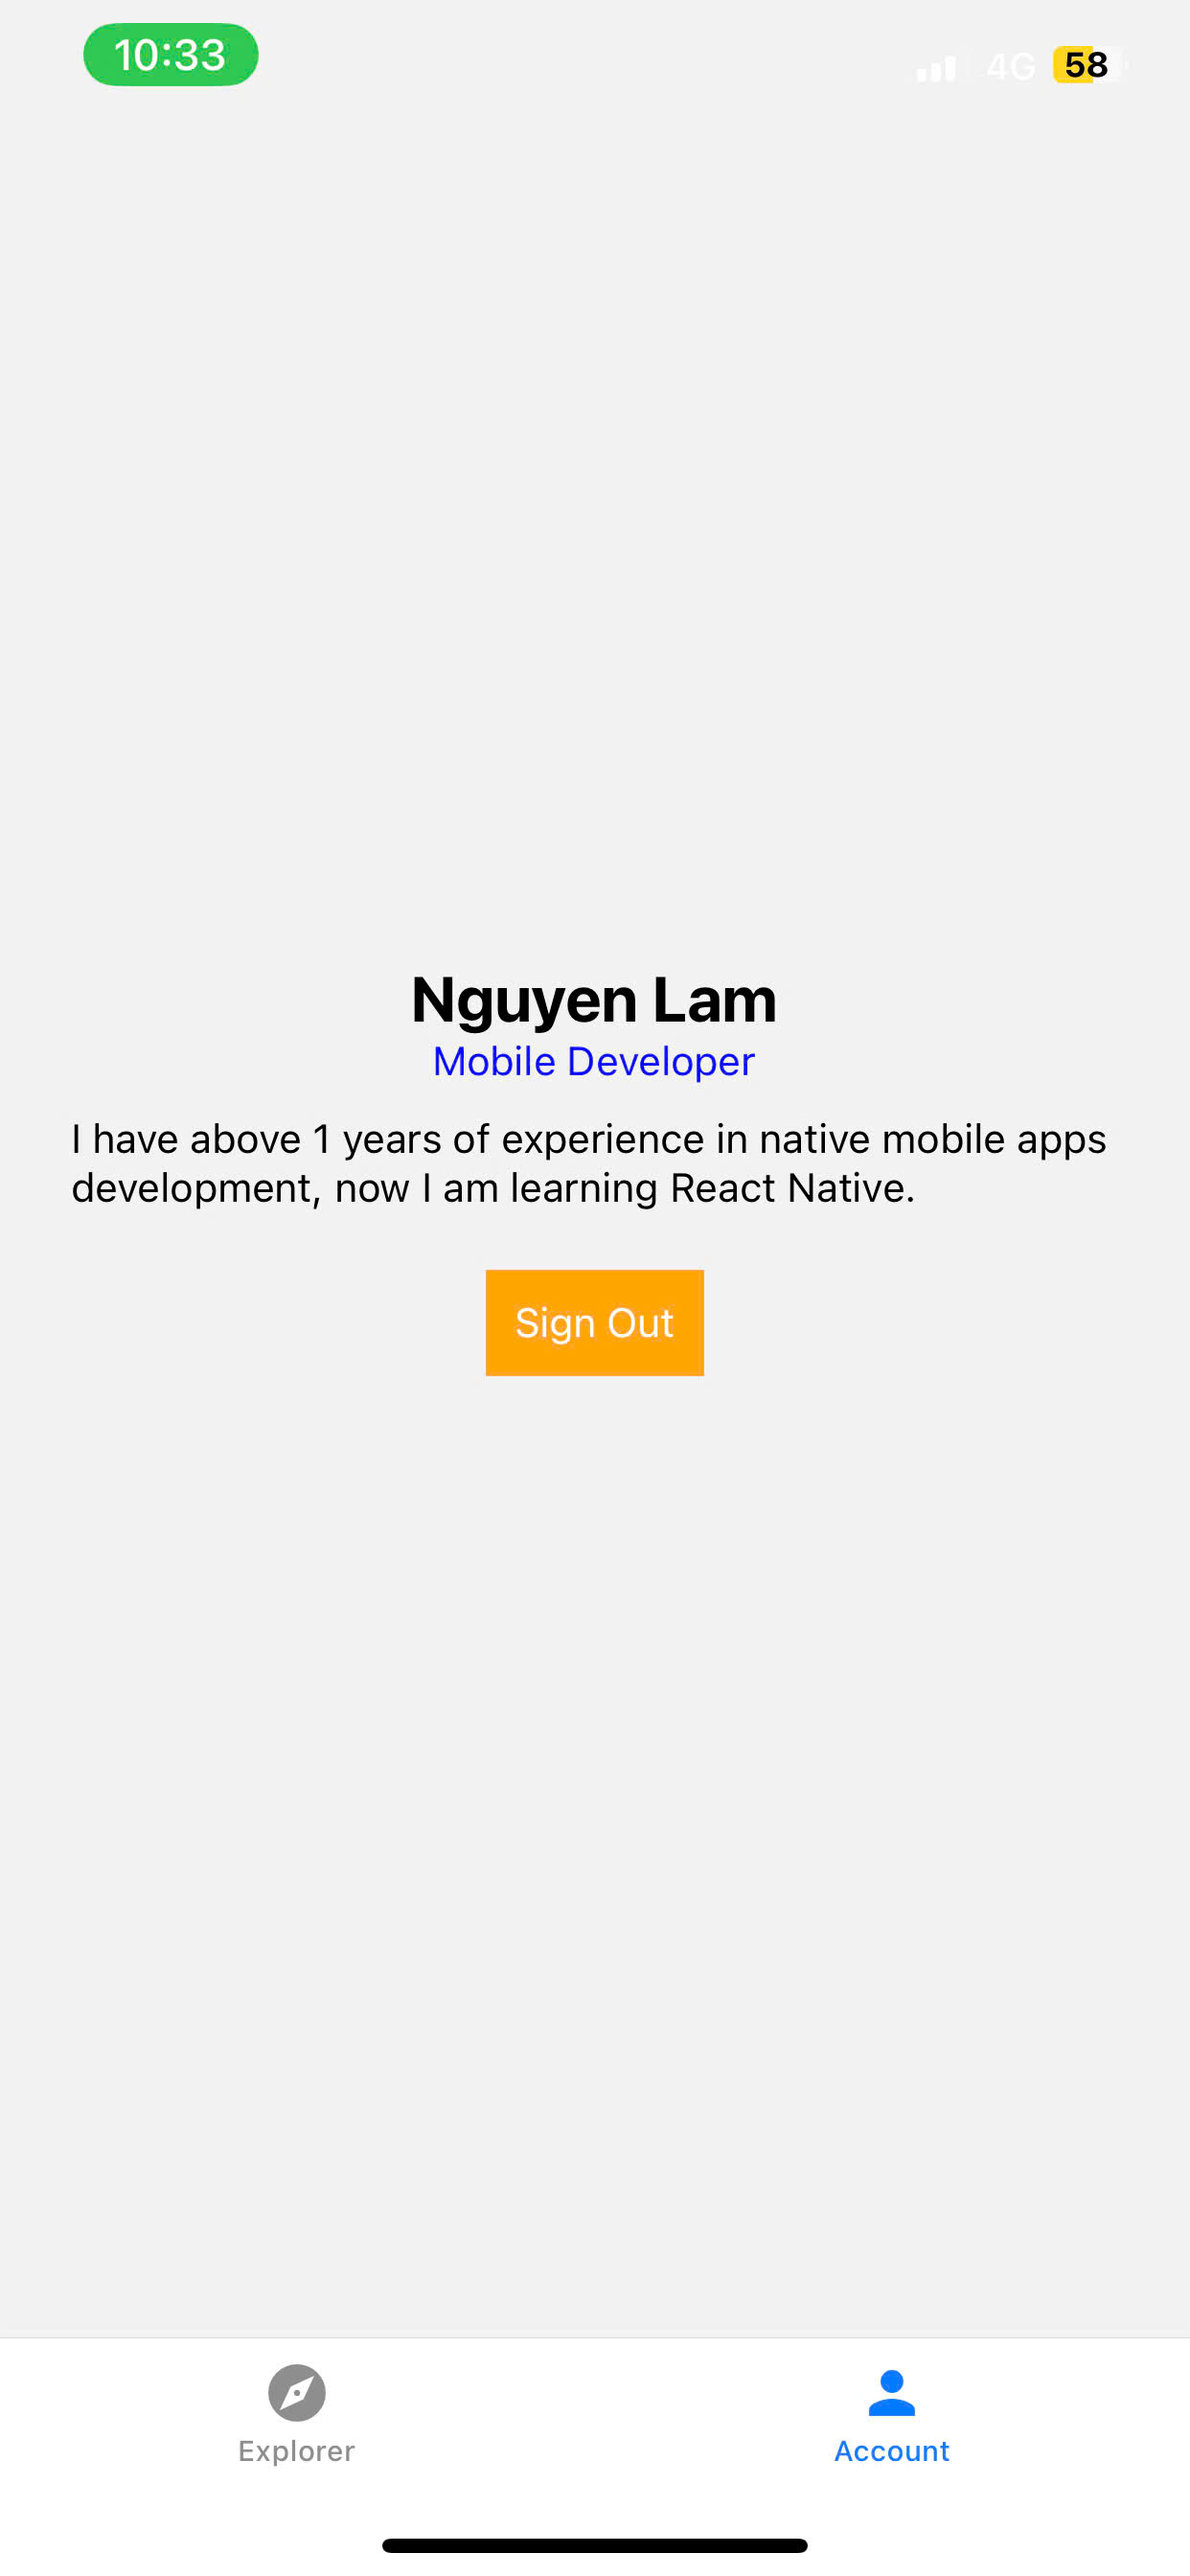
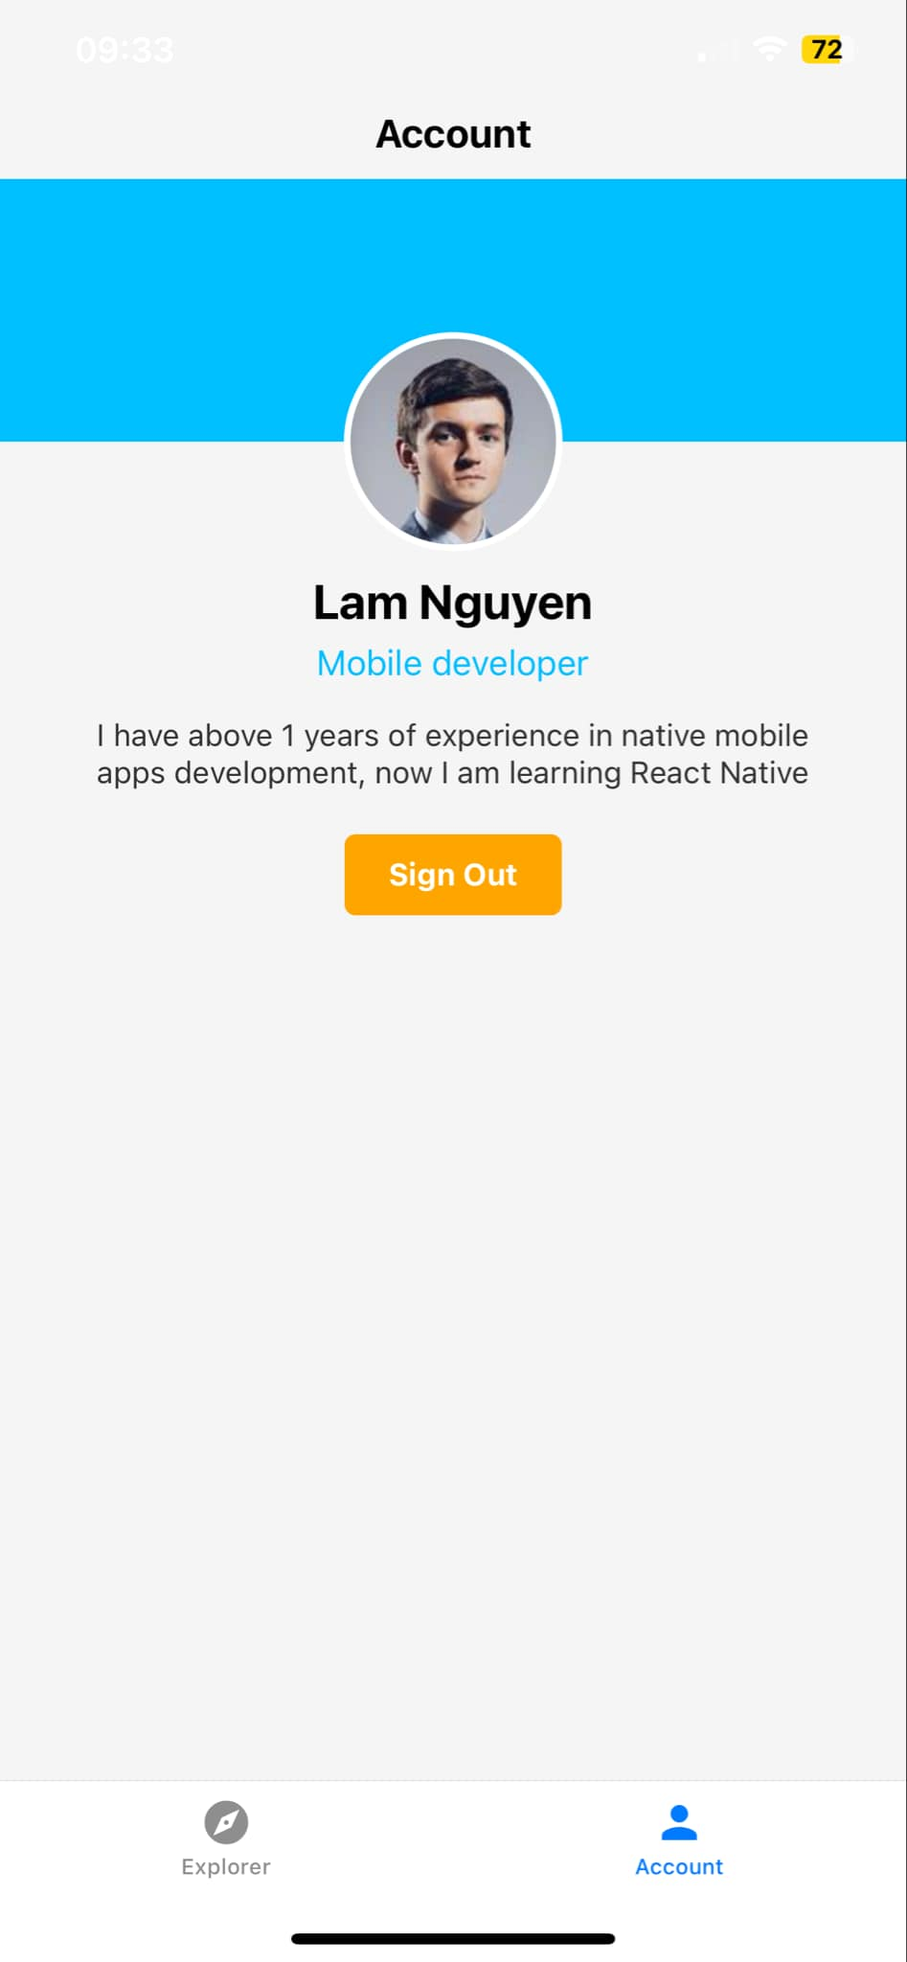
Bai Tap 18-3

diff --git a/screens/SignInScreen.js b/screens/SignInScreen.js
@@ -1,165 +1,116 @@
 import React, { useState } from 'react';
-import {
-  View,
-  Text,
-  TextInput,
-  TouchableOpacity,
-  StyleSheet,
-  KeyboardAvoidingView,
-  ScrollView,
-  Platform,
-  TouchableWithoutFeedback,
-  Keyboard
-} from 'react-native';
+import { View, Text, TextInput, TouchableOpacity, StyleSheet, Alert } from 'react-native';
+import AsyncStorage from '@react-native-async-storage/async-storage';
 import Icon from 'react-native-vector-icons/FontAwesome';
 
-export function SignInScreen({ navigation }) {
+export default function SignInScreen({ navigation }) {
   const [email, setEmail] = useState('');
   const [password, setPassword] = useState('');
 
+  const handleSignIn = async () => {
+    if (!email || !password) {
+      Alert.alert('Thông báo', 'Vui lòng nhập Email và Password');
+      return;
+    }
+    try {
+      await AsyncStorage.setItem('userEmail', email);
+      Alert.alert('Thành công', 'Đăng nhập thành công!');
+  
+      // ✅ Chuyển qua Explorer trước, sau đó có thể quay về Account
+      navigation.navigate('Main');
+      // ✅ Nếu muốn chuyển thẳng sang Account thì thay Explorer bằng Account
+      // navigation.navigate('Account');
+  
+    } catch (error) {
+      Alert.alert('Lỗi', 'Lưu email thất bại');
+    }
+  };
+
+  const handleGoogleLogin = () => {
+    Alert.alert('Google Login', 'Tính năng đang phát triển');
+  };
+
+  const handleFacebookLogin = () => {
+    Alert.alert('Facebook Login', 'Tính năng đang phát triển');
+  };
+
   return (
-    <KeyboardAvoidingView
-      behavior={Platform.OS === "ios" ? "padding" : "height"}
-      style={styles.container}
-    >
-      <TouchableWithoutFeedback onPress={Keyboard.dismiss}>
-        <ScrollView contentContainerStyle={styles.scrollContainer}>
-          <View style={styles.innerContainer}>
-            <Text style={styles.title}>Sign In</Text>
+    <View style={styles.container}>
+      <Text style={styles.title}>Sign In</Text>
 
-            {/* Email Input */}
-            <Text style={styles.label}>Email Id</Text>
-            <TextInput
-              style={styles.input}
-              placeholder="Enter your email here!"
-              value={email}
-              onChangeText={setEmail}
-              keyboardType="email-address"
-            />
+      <Text style={styles.label}>Email Id</Text>
+      <TextInput
+        style={styles.input}
+        placeholder="Enter your email here!"
+        value={email}
+        onChangeText={setEmail}
+      />
 
-            {/* Password Input */}
-            <Text style={styles.label}>Password</Text>
-            <TextInput
-              style={styles.input}
-              placeholder="Enter your password here!"
-              secureTextEntry
-              value={password}
-              onChangeText={setPassword}
-            />
+      <Text style={styles.label}>Password</Text>
+      <TextInput
+        style={styles.input}
+        placeholder="Enter your password here!"
+        secureTextEntry
+        value={password}
+        onChangeText={setPassword}
+      />
 
-            {/* Forgot Password */}
-            <TouchableOpacity>
-              <Text style={styles.forgotPassword}>Forgot password?</Text>
-            </TouchableOpacity>
+      <TouchableOpacity style={styles.forgot}>
+        <Text style={styles.forgotText}>Forgot password?</Text>
+      </TouchableOpacity>
 
-            {/* Sign In Button */}
-            <TouchableOpacity style={styles.button} onPress={() => navigation.replace('Main')}>
-              <Text style={styles.buttonText}>Sign In</Text>
-            </TouchableOpacity>
+      <TouchableOpacity style={styles.signInBtn} onPress={handleSignIn}>
+        <Text style={styles.signInText}>Sign In</Text>
+      </TouchableOpacity>
 
-            {/* OR Sign In With */}
-            <Text style={styles.orText}>Or sign in with</Text>
+      <Text style={styles.orText}>Or sign in with</Text>
 
-            {/* Social Sign In Buttons */}
-            <View style={styles.socialButtons}>
-              <TouchableOpacity style={[styles.socialButton, { backgroundColor: '#DB4437' }]}>
-                <Icon name="google" size={20} color="white" />
-                <Text style={styles.socialButtonText}> Google</Text>
-              </TouchableOpacity>
-              <TouchableOpacity style={[styles.socialButton, { backgroundColor: '#4267B2' }]}>
-                <Icon name="facebook" size={20} color="white" />
-                <Text style={styles.socialButtonText}> Facebook</Text>
-              </TouchableOpacity>
-            </View>
+      <View style={styles.socialContainer}>
+        <TouchableOpacity style={styles.googleBtn} onPress={handleGoogleLogin}>
+          <Icon name="google" size={20} color="#fff" />
+          <Text style={styles.socialText}> Google</Text>
+        </TouchableOpacity>
 
-            {/* Sign Up Link */}
-            <TouchableOpacity onPress={() => alert('Sign Up')}>
-              <Text style={styles.signUp}>
-                Not yet a member? <Text style={{ color: 'orange' }}>Sign Up</Text>
-              </Text>
-            </TouchableOpacity>
-          </View>
-        </ScrollView>
-      </TouchableWithoutFeedback>
-    </KeyboardAvoidingView>
+        <TouchableOpacity style={styles.fbBtn} onPress={handleFacebookLogin}>
+          <Icon name="facebook" size={20} color="#fff" />
+          <Text style={styles.socialText}> Facebook</Text>
+        </TouchableOpacity>
+      </View>
+
+      <View style={styles.signupContainer}>
+        <Text>Not yet a member? </Text>
+        <TouchableOpacity>
+          <Text style={styles.signupText}>Sign Up</Text>
+        </TouchableOpacity>
+      </View>
+    </View>
   );
 }
 
 const styles = StyleSheet.create({
-  container: {
-    flex: 1,
-    backgroundColor: 'white',
-  },
-  scrollContainer: {
-    flexGrow: 1,
-    justifyContent: 'center',
-    paddingHorizontal: 20,
-  },
-  innerContainer: {
-    width: '100%',
-  },
-  title: {
-    fontSize: 24,
-    fontWeight: 'bold',
-    textAlign: 'center',
-    marginBottom: 20,
-  },
-  label: {
-    fontSize: 16,
-    fontWeight: 'bold',
-    marginBottom: 5,
-  },
+  container: { flex: 1, padding: 20, justifyContent: 'center', backgroundColor: '#fff' },
+  title: { fontSize: 28, fontWeight: 'bold', textAlign: 'center', marginBottom: 30 },
+  label: { fontWeight: 'bold', marginBottom: 5 },
   input: {
-    borderWidth: 1,
-    borderColor: '#ccc',
-    padding: 10,
-    marginBottom: 10,
-    borderRadius: 5,
-    backgroundColor: '#fff',
+    borderWidth: 1, borderColor: '#ccc', borderRadius: 5,
+    padding: 12, marginBottom: 15,
   },
-  forgotPassword: {
-    color: 'orange',
-    textAlign: 'right',
-    marginBottom: 20,
+  forgot: { alignItems: 'flex-end', marginBottom: 20 },
+  forgotText: { color: '#f5a623' },
+  signInBtn: {
+    backgroundColor: '#f5a623', padding: 15,
+    borderRadius: 5, alignItems: 'center', marginBottom: 20
   },
-  button: {
-    backgroundColor: 'orange',
-    padding: 15,
-    borderRadius: 5,
-    alignItems: 'center',
+  signInText: { color: '#fff', fontWeight: 'bold' },
+  orText: { textAlign: 'center', marginVertical: 15, color: '#555' },
+  socialContainer: { flexDirection: 'row', justifyContent: 'space-around', marginBottom: 20 },
+  googleBtn: {
+    backgroundColor: '#db4437', padding: 12, borderRadius: 5, flexDirection: 'row', alignItems: 'center'
   },
-  buttonText: {
-    color: 'white',
-    fontWeight: 'bold',
+  fbBtn: {
+    backgroundColor: '#3b5998', padding: 12, borderRadius: 5, flexDirection: 'row', alignItems: 'center'
   },
-  orText: {
-    textAlign: 'center',
-    fontSize: 14,
-    fontWeight: 'bold',
-    marginVertical: 15,
-    color: '#555',
-  },
-  socialButtons: {
-    flexDirection: 'row',
-    justifyContent: 'space-around',
-    marginTop: 10,
-  },
-  socialButton: {
-    flexDirection: 'row',
-    alignItems: 'center',
-    padding: 10,
-    borderRadius: 5,
-    width: 120,
-    justifyContent: 'center',
-  },
-  socialButtonText: {
-    color: 'white',
-    fontWeight: 'bold',
-  },
-  signUp: {
-    textAlign: 'center',
-    marginTop: 20,
-  },
+  socialText: { color: '#fff', fontWeight: 'bold', marginLeft: 8 },
+  signupContainer: { flexDirection: 'row', justifyContent: 'center' },
+  signupText: { color: '#f5a623' }
 });
-
-export default SignInScreen;

diff --git a/screens/AccountScreen.js b/screens/AccountScreen.js
@@ -1,13 +1,34 @@
-import React from 'react';
-import { View, Text, TouchableOpacity, StyleSheet } from 'react-native';
+import React, { useEffect, useState } from 'react';
+import { View, Text, TouchableOpacity, StyleSheet, Image } from 'react-native';
+import AsyncStorage from '@react-native-async-storage/async-storage';
 
-export function AccountScreen({ navigation }) {
+export default function AccountScreen({ navigation }) {
+  const [username, setUsername] = useState('');
+
+  useEffect(() => {
+    const loadUser = async () => {
+      const name = await AsyncStorage.getItem('username');
+      if (name) setUsername(name);
+    };
+    loadUser();
+  }, []);
+
+  const handleSignOut = async () => {
+    await AsyncStorage.removeItem('username');
+    navigation.replace('SignIn');
+  };
+
   return (
     <View style={styles.container}>
-      <Text style={styles.name}>Nguyen Lam</Text>
+      <Text style={styles.title}>Account</Text>
+      <View style={styles.headerBackground} />
+      <Image source={{ uri: 'https://randomuser.me/api/portraits/men/1.jpg' }} style={styles.avatar} />
+      <Text style={styles.name}>{username || 'Lam Nguyen'}</Text>
       <Text style={styles.role}>Mobile Developer</Text>
-      <Text>I have above 1 years of experience in native mobile apps development, now I am learning React Native.</Text>
-      <TouchableOpacity style={styles.button} onPress={() => navigation.replace('SignIn')}>
+      <Text style={styles.description}>
+        I have above 1 years of experience in native mobile apps development, now I am learning React Native
+      </Text>
+      <TouchableOpacity style={styles.button} onPress={handleSignOut}>
         <Text style={styles.buttonText}>Sign Out</Text>
       </TouchableOpacity>
     </View>
@@ -15,9 +36,13 @@ export function AccountScreen({ navigation }) {
 }
 
 const styles = StyleSheet.create({
-  container: { flex: 1, padding: 20, justifyContent: 'center', alignItems: 'center' },
-  name: { fontSize: 22, fontWeight: 'bold' },
-  role: { color: 'blue', marginBottom: 10 },
-  button: { backgroundColor: 'orange', padding: 10, marginTop: 20 },
-  buttonText: { color: 'white' },
+  container: { flex: 1, backgroundColor: '#f5f5f5', alignItems: 'center' },
+  title: { fontSize: 18, fontWeight: 'bold', marginTop: 50, marginBottom: 10 },
+  headerBackground: { width: '100%', height: 120, backgroundColor: '#00BFFF' },
+  avatar: { width: 100, height: 100, borderRadius: 50, marginTop: -50, borderWidth: 3, borderColor: '#fff' },
+  name: { fontSize: 22, fontWeight: 'bold', marginTop: 10 },
+  role: { color: '#00BFFF', marginTop: 5, fontSize: 16 },
+  description: { marginTop: 15, textAlign: 'center', paddingHorizontal: 30, fontSize: 14, color: '#333' },
+  button: { backgroundColor: 'orange', paddingVertical: 10, paddingHorizontal: 20, borderRadius: 5, marginTop: 20 },
+  buttonText: { color: 'white', fontWeight: 'bold' },
 });

diff --git a/App.js b/App.js
@@ -2,9 +2,9 @@ import React from 'react';
 import { NavigationContainer } from '@react-navigation/native';
 import { createStackNavigator } from '@react-navigation/stack';
 import { createBottomTabNavigator } from '@react-navigation/bottom-tabs';
-import { SignInScreen } from './screens/SignInScreen';
-import { ExplorerScreen } from './screens/ExplorerScreen';
-import { AccountScreen } from './screens/AccountScreen';
+import  SignInScreen  from './screens/SignInScreen';
+import  ExplorerScreen  from './screens/ExplorerScreen';
+import AccountScreen  from './screens/AccountScreen';
 import Icon from 'react-native-vector-icons/MaterialIcons';
 
 const Stack = createStackNavigator();
